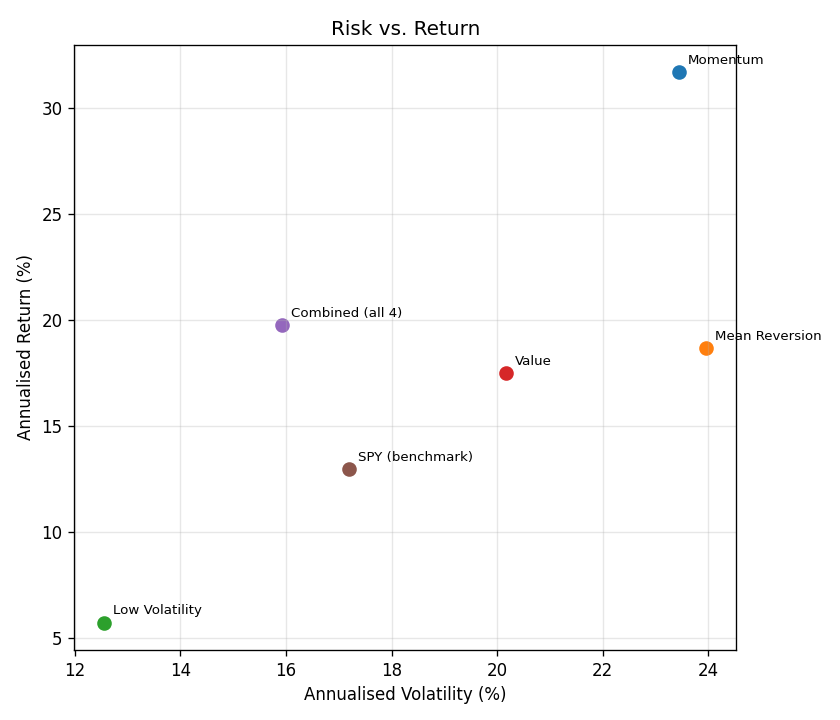
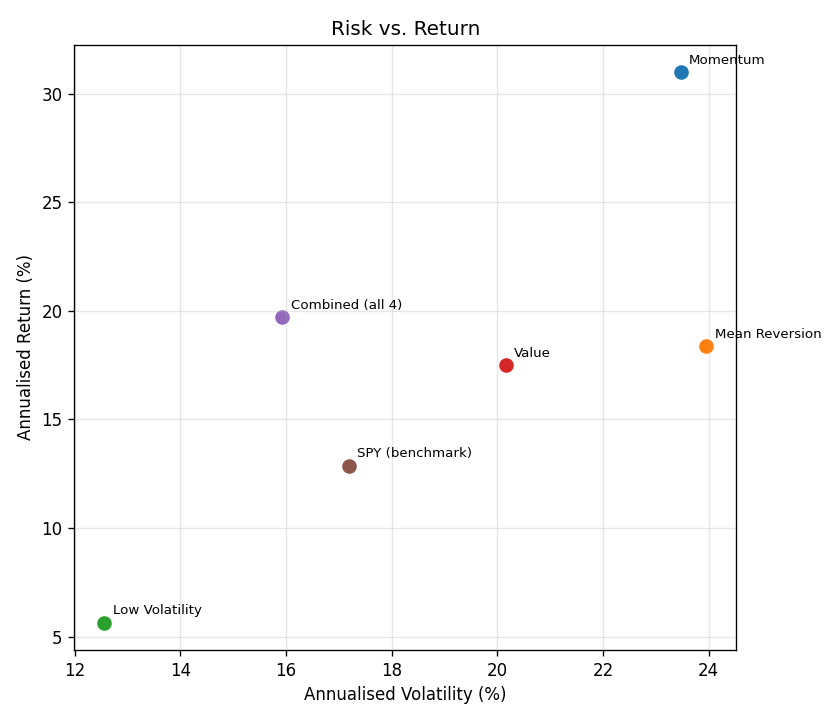
chore: refresh backtest report [skip ci]

diff --git a/reports/output/summary.md b/reports/output/summary.md
@@ -2,11 +2,11 @@
 
 | Strategy | Ann. Return | Ann. Vol | Sharpe | Max DD | Excess Ret | Info Ratio |
 |---|---:|---:|---:|---:|---:|---:|
-| Momentum | 31.68% | 23.45% | 1.12 | -28.96% | 18.78% | 1.06 |
-| Mean Reversion | 18.66% | 23.96% | 0.67 | -28.84% | 5.77% | 0.44 |
-| Low Volatility | 5.72% | 12.56% | 0.19 | -18.43% | -7.18% | -0.52 |
-| Value | 17.50% | 20.17% | 0.70 | -23.87% | 4.60% | 0.36 |
-| Combined (all 4) | 19.75% | 15.93% | 0.96 | -22.41% | 6.85% | 0.51 |
-| SPY (benchmark) | 12.94% | 17.20% | 0.56 | -24.50% | - | - |
+| Momentum | 30.99% | 23.47% | 1.10 | -28.96% | 18.15% | 1.02 |
+| Mean Reversion | 18.37% | 23.96% | 0.66 | -28.84% | 5.53% | 0.42 |
+| Low Volatility | 5.65% | 12.56% | 0.18 | -18.43% | -7.19% | -0.52 |
+| Value | 17.49% | 20.16% | 0.70 | -23.87% | 4.65% | 0.36 |
+| Combined (all 4) | 19.71% | 15.93% | 0.96 | -22.41% | 6.87% | 0.51 |
+| SPY (benchmark) | 12.88% | 17.19% | 0.56 | -24.50% | - | - |
 
 See docs/decisions.md for methodology, assumptions, and known limitations (survivorship bias, point-in-time Value signal construction, sample size).
